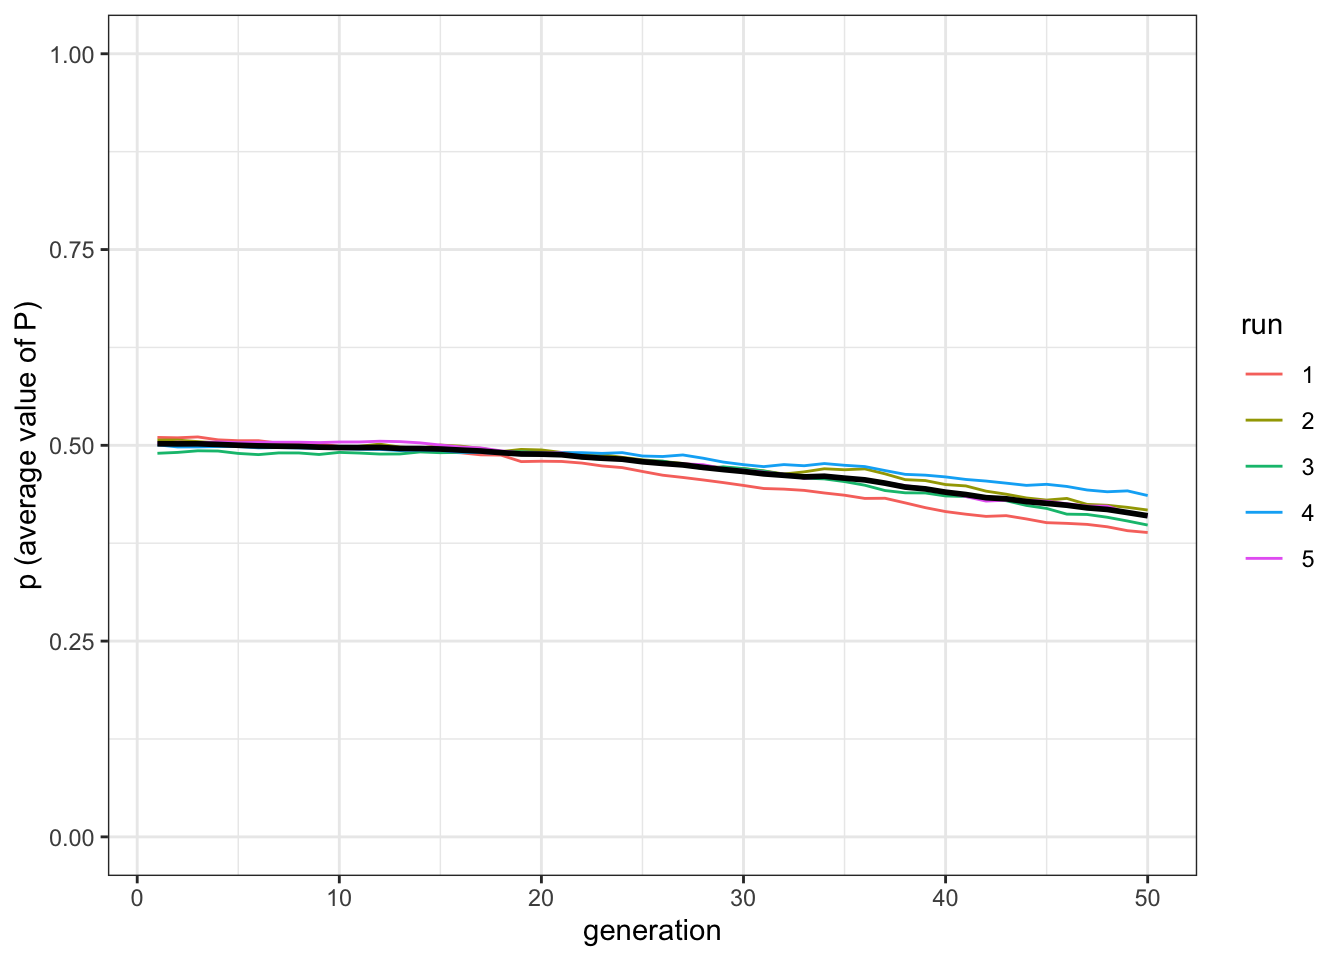
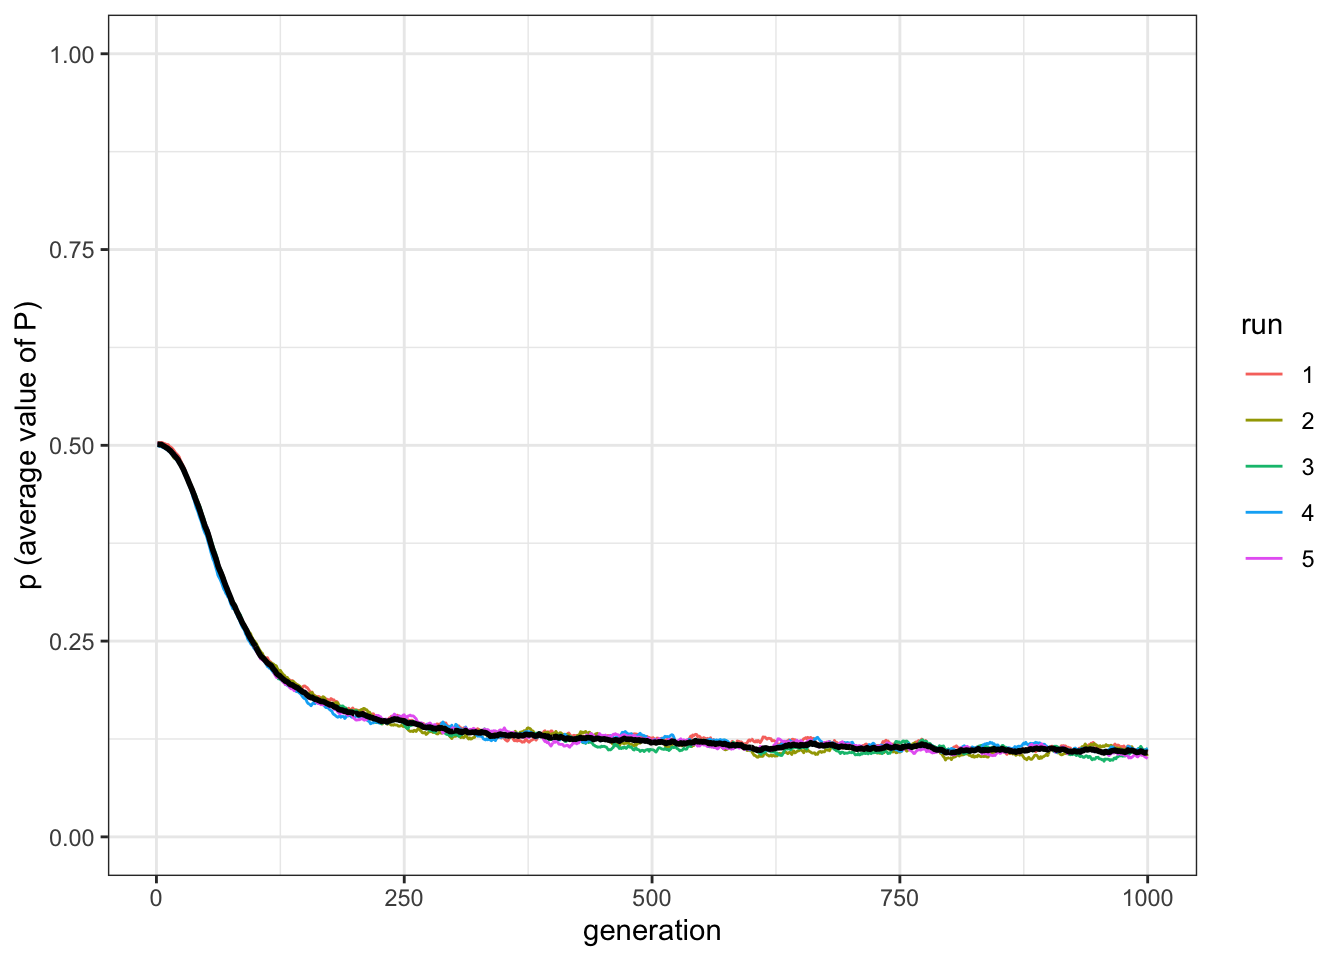
adding explanation of code

diff --git a/_book/social-learning-of-social-learning-rules.html b/_book/social-learning-of-social-learning-rules.html
@@ -234,8 +234,8 @@ population &lt;-<span class="st"> </span><span class="kw">tibble</span>(<span cl
 </div>
 <div id="maintaining-open-populations" class="section level2">
 <h2><span class="header-section-number">7.2</span> Maintaining open populations</h2>
-<p>The result above highlights a possibly interesting aspect of what could happen when social learning rules are themselves subject to social learning, but it does not represent, of course, what happens in reality. Some models, such as the Rogers’ model we explored in [chapter 8][Rogers’ model], are useful exactly because they force us to think how reality differs from the modeled situation. Individuals, in real life, remain open because learning from others is, on average, effective, and increase their fitness.</p>
-<p>However,</p>
+<p>The result above highlights a possibly interesting aspect of what could happen when social learning rules are themselves subject to social learning, but it does not represent, of course, what happens in reality. Some models, such as the Rogers’ model we explored in [chapter 8][Rogers’ model], are useful exactly because they force us to think how reality differs from the modeled situation. Individuals, in real life, remain open because learning from others is, on average, effective, and increases their fitness.</p>
+<p>In addition, even without considering the possible fitness advantages of copying from others, there may be other reasons why individuals remain open to cultural influences. We can add a bit of complexity to the previous model and see what happens. For example, instead of having a single <em>P</em> value, individuals can be “open” or “conservative” depending on the specific cultural trait they observe. One can be open to try exotic recipes, while another may like only its local cuisine; one want to know everything about combat sports, while another prefers watching them in TV. We can say that, instead of a single <em>P</em>, we have many preferences associated to cultural traits and, as before, they can be transmitted from one individual to another. Second, we decide to copy other individuals depending on our preferences for the traits they show us. Finally, individuals are born [AS BEFORE, IF BIRTH/DEATH PROCESSES ARE NOT INTRODUCED BEFORE, WE NEED TO SAY SOMETHING HERE] without cultural traits, and they acquire them during the course of their life, by copying them from others, or by introducing them through innovation. The new function <code>openness_conservatims_2()</code> does all the above.</p>
 <div class="sourceCode"><pre class="sourceCode r"><code class="sourceCode r">openness_conservatism_<span class="dv">2</span> &lt;-<span class="st"> </span><span class="cf">function</span>(N, M, mu, p_death, t_max, r_max){
   output &lt;-<span class="st"> </span><span class="kw">tibble</span>(<span class="dt">generation =</span> <span class="kw">rep</span>(<span class="dv">1</span><span class="op">:</span>t_max, r_max), <span class="dt">p =</span> <span class="kw">rep</span>(<span class="ot">NA</span>, t_max <span class="op">*</span><span class="st"> </span>r_max), <span class="dt">m =</span> <span class="kw">rep</span>(<span class="ot">NA</span>, t_max <span class="op">*</span><span class="st"> </span>r_max), <span class="dt">run =</span> <span class="kw">as.factor</span>(<span class="kw">rep</span>(<span class="dv">1</span><span class="op">:</span>r_max, <span class="dt">each =</span> t_max)))
   <span class="cf">for</span> (r <span class="cf">in</span> <span class="dv">1</span><span class="op">:</span>r_max) {
@@ -272,6 +272,21 @@ population &lt;-<span class="st"> </span><span class="kw">tibble</span>(<span cl
   }
   output
 }</code></pre></div>
+<p>The population is now described by two matrices, <code>population_preferences</code> and <code>population_traits</code>, that are initliased with random number between 0 and 1 and with all 0s, rispectively, meaning that at the beginning there are no traits in the population. The same happens for newborns. A parameter of the simulation, <em>M</em>, gives the maximum possible number of traits. At each time step, a proportion <span class="math inline">\(\mu\)</span> of innovators introduce a trait at random.</p>
+<p>The main novelties of the code are in the copying procedure. After selecting random demonstrators and, for each of them, a random trait-slot, we record in the variable <code>copy</code> the individuals that will copy the demonstrator. For this to happen, the demonstrator needs to actually posses the trait randomly selected <code>previous_population_traits[cbind(demonstrators,demonstrators_traits)]==1</code> and the preference of the observer for that trait should be sufficienlty high <code>previous_population_preferences[cbind(1:N, demonstrators_traits)] &gt; runif(N)</code>. If this two conditions are satisifed, the observer copies both the trait and the preference of the demonstrator.</p>
+<p>We can start with a situation similar to the previous model, with ony a single trait (<span class="math inline">\(M=1\)</span>). We set a relatively high innovation rate (<span class="math inline">\(\mu=0.1\)</span>) so that the initial population is quickly populate by cultural traits, and <span class="math inline">\(p_\text{death}=0.01\)</span>, meaning that, with a population of 100 individuals, every time step there will be on average one newborn. (As usual, you are invited to explore the effect of these parameters.)</p>
+<div class="sourceCode"><pre class="sourceCode r"><code class="sourceCode r">data_model &lt;-<span class="st"> </span><span class="kw">openness_conservatism_2</span>(<span class="dt">N =</span> <span class="dv">1000</span>, <span class="dt">M =</span> <span class="dv">1</span>, <span class="dt">mu =</span> <span class="fl">0.1</span>, <span class="dt">p_death =</span> <span class="fl">0.01</span>, <span class="dt">t_max =</span> <span class="dv">50</span>, <span class="dt">r_max =</span> <span class="dv">5</span>)
+<span class="kw">plot_multiple_runs_p</span>(data_model)</code></pre></div>
+<p><img src="_main_files/figure-html/14.6-1.png" width="672" /></p>
+<p>The plot is fairly similar to what we saw before. The average openness of the population converges towards lower values in few generations, in all runs. The descent is less steep since at the beginning of the simulations individuals need to acquire cultural traits to kickstart social transmission. We can now with an higher number of possible traits, for example <span class="math inline">\(M=10\)</span>.</p>
+<div class="sourceCode"><pre class="sourceCode r"><code class="sourceCode r">data_model &lt;-<span class="st"> </span><span class="kw">openness_conservatism_2</span>(<span class="dt">N =</span> <span class="dv">1000</span>, <span class="dt">M =</span> <span class="dv">10</span>, <span class="dt">mu =</span> <span class="fl">0.1</span>, <span class="dt">p_death =</span> <span class="fl">0.01</span>, <span class="dt">t_max =</span> <span class="dv">50</span>, <span class="dt">r_max =</span> <span class="dv">5</span>)
+<span class="kw">plot_multiple_runs_p</span>(data_model)</code></pre></div>
+<p><img src="_main_files/figure-html/14.7-1.png" width="672" /></p>
+<p>Now the covergence seems slower. We can try with longer simulations, fixing <span class="math inline">\(t_\text{max}=1000\)</span>.</p>
+<div class="sourceCode"><pre class="sourceCode r"><code class="sourceCode r">data_model &lt;-<span class="st"> </span><span class="kw">openness_conservatism_2</span>(<span class="dt">N =</span> <span class="dv">1000</span>, <span class="dt">M =</span> <span class="dv">10</span>, <span class="dt">mu =</span> <span class="fl">0.1</span>, <span class="dt">p_death =</span> <span class="fl">0.01</span>, <span class="dt">t_max =</span> <span class="dv">1000</span>, <span class="dt">r_max =</span> <span class="dv">5</span>)
+<span class="kw">plot_multiple_runs_p</span>(data_model)</code></pre></div>
+<p><img src="_main_files/figure-html/14.8-1.png" width="672" /></p>
+<p>Even after <span class="math inline">\(1000\)</span> generations, population openness did not go to 0, but it stabilises on a value of around <span class="math inline">\(0.12\)</span>. To understand what happens it is interesting to plot the other value we are recording in the output of the simulation, that is the average number of traits that individuals possess. The function below is equivalent to the usual <code>plot_multiple_runs()</code>, but with a different y-axis label, and it takes <span class="math inline">\(M\)</span> (the maximum number of traits) as a parameter, so that we can set the y-axis to span from 0 to <span class="math inline">\(M\)</span>, to have a better visual estimate of the proportion of traits present with respect to the maximum possible.</p>
 <div class="sourceCode"><pre class="sourceCode r"><code class="sourceCode r">plot_multiple_runs_m &lt;-<span class="st"> </span><span class="cf">function</span>(data_model, M) {
   <span class="kw">ggplot</span>(<span class="dt">data =</span> data_model, <span class="kw">aes</span>(<span class="dt">y =</span> m, <span class="dt">x =</span> generation)) <span class="op">+</span>
 <span class="st">    </span><span class="kw">geom_line</span>(<span class="kw">aes</span>(<span class="dt">colour =</span> run)) <span class="op">+</span>
@@ -280,39 +295,28 @@ population &lt;-<span class="st"> </span><span class="kw">tibble</span>(<span cl
 <span class="st">    </span><span class="kw">theme_bw</span>() <span class="op">+</span>
 <span class="st">    </span><span class="kw">labs</span>(<span class="dt">y =</span> <span class="st">&quot;m (average number of traits)&quot;</span>)
 }</code></pre></div>
-<div class="sourceCode"><pre class="sourceCode r"><code class="sourceCode r">data_model &lt;-<span class="st"> </span><span class="kw">openness_conservatism_2</span>(<span class="dt">N =</span> <span class="dv">100</span>, <span class="dt">M =</span> <span class="dv">1</span>, <span class="dt">mu =</span> <span class="fl">0.1</span>, <span class="dt">p_death =</span> <span class="fl">0.01</span>, <span class="dt">t_max =</span> <span class="dv">50</span>, <span class="dt">r_max =</span> <span class="dv">5</span>)
-<span class="kw">plot_multiple_runs_p</span>(data_model)</code></pre></div>
-<p><img src="_main_files/figure-html/14.7-1.png" width="672" /></p>
-<div class="sourceCode"><pre class="sourceCode r"><code class="sourceCode r"><span class="kw">plot_multiple_runs_m</span>(data_model, <span class="dt">M =</span> <span class="dv">1</span>)</code></pre></div>
-<p><img src="_main_files/figure-html/14.7-2.png" width="672" /></p>
-<div class="sourceCode"><pre class="sourceCode r"><code class="sourceCode r">data_model &lt;-<span class="st"> </span><span class="kw">openness_conservatism_2</span>(<span class="dt">N =</span> <span class="dv">100</span>, <span class="dt">M =</span> <span class="dv">10</span>, <span class="dt">mu =</span> <span class="fl">0.1</span>, <span class="dt">p_death =</span> <span class="fl">0.01</span>, <span class="dt">t_max =</span> <span class="dv">50</span>, <span class="dt">r_max =</span> <span class="dv">5</span>)
-<span class="kw">plot_multiple_runs_p</span>(data_model)</code></pre></div>
-<p><img src="_main_files/figure-html/14.8-1.png" width="672" /></p>
 <div class="sourceCode"><pre class="sourceCode r"><code class="sourceCode r"><span class="kw">plot_multiple_runs_m</span>(data_model, <span class="dt">M =</span> <span class="dv">10</span>)</code></pre></div>
-<p><img src="_main_files/figure-html/14.8-2.png" width="672" /></p>
-<div class="sourceCode"><pre class="sourceCode r"><code class="sourceCode r">data_model &lt;-<span class="st"> </span><span class="kw">openness_conservatism_2</span>(<span class="dt">N =</span> <span class="dv">100</span>, <span class="dt">M =</span> <span class="dv">10</span>, <span class="dt">mu =</span> <span class="fl">0.1</span>, <span class="dt">p_death =</span> <span class="fl">0.01</span>, <span class="dt">t_max =</span> <span class="dv">1000</span>, <span class="dt">r_max =</span> <span class="dv">5</span>)
-<span class="kw">plot_multiple_runs_p</span>(data_model)</code></pre></div>
-<p><img src="_main_files/figure-html/14.9-1.png" width="672" /></p>
-<div class="sourceCode"><pre class="sourceCode r"><code class="sourceCode r"><span class="kw">plot_multiple_runs_m</span>(data_model, <span class="dt">M =</span> <span class="dv">10</span>)</code></pre></div>
-<p><img src="_main_files/figure-html/14.9-2.png" width="672" /></p>
-<div class="sourceCode"><pre class="sourceCode r"><code class="sourceCode r">data_model &lt;-<span class="st"> </span><span class="kw">openness_conservatism_2</span>(<span class="dt">N =</span> <span class="dv">100</span>, <span class="dt">M =</span> <span class="dv">50</span>, <span class="dt">mu =</span> <span class="fl">0.1</span>, <span class="dt">p_death =</span> <span class="fl">0.01</span>, <span class="dt">t_max =</span> <span class="dv">1000</span>, <span class="dt">r_max =</span> <span class="dv">5</span>)
-<span class="kw">plot_multiple_runs_p</span>(data_model)</code></pre></div>
 <p><img src="_main_files/figure-html/14.10-1.png" width="672" /></p>
+<p>On average, individuals do not have all 10 possible traits. Remember that individuals are replaced with a birth/death process, and they are born with no cultural traits so that they need time to acquire them. Let’s try now with a bigger possible cultural repertoire, say <span class="math inline">\(M=50\)</span>, and plot the aveage openness as well as the average number of traits.</p>
+<div class="sourceCode"><pre class="sourceCode r"><code class="sourceCode r">data_model &lt;-<span class="st"> </span><span class="kw">openness_conservatism_2</span>(<span class="dt">N =</span> <span class="dv">1000</span>, <span class="dt">M =</span> <span class="dv">50</span>, <span class="dt">mu =</span> <span class="fl">0.1</span>, <span class="dt">p_death =</span> <span class="fl">0.01</span>, <span class="dt">t_max =</span> <span class="dv">1000</span>, <span class="dt">r_max =</span> <span class="dv">5</span>)
+<span class="kw">plot_multiple_runs_p</span>(data_model)</code></pre></div>
+<p><img src="_main_files/figure-html/14.11-1.png" width="672" /></p>
 <div class="sourceCode"><pre class="sourceCode r"><code class="sourceCode r"><span class="kw">plot_multiple_runs_m</span>(data_model, <span class="dt">M =</span> <span class="dv">50</span>)</code></pre></div>
-<p><img src="_main_files/figure-html/14.10-2.png" width="672" /></p>
-<p>Visualise the full relationship:</p>
+<p><img src="_main_files/figure-html/14.11-2.png" width="672" /></p>
+<p>This time the average openness stabilises to an even higher value (around <span class="math inline">\(0.4\)</span>), and the number of cultural traits is below 20, lower than half of all possible traits.</p>
+<p>We can explcitly visualise the relationship between <span class="math inline">\(M\)</span> and population openness after <span class="math inline">\(1000\)</span> generations for few representative values of <span class="math inline">\(M\)</span>. We consider only a single run for each condition as, from the previous results, we know that different runs give very similar results.</p>
 <div class="sourceCode"><pre class="sourceCode r"><code class="sourceCode r">test_openness &lt;-<span class="st"> </span><span class="kw">tibble</span>(<span class="dt">M =</span> <span class="kw">c</span>(<span class="dv">1</span>,<span class="dv">5</span>,<span class="dv">10</span>,<span class="dv">20</span>,<span class="dv">50</span>,<span class="dv">100</span>), <span class="dt">p =</span> <span class="kw">rep</span>(<span class="ot">NA</span>, <span class="dv">6</span>))
 <span class="cf">for</span>(condition <span class="cf">in</span> test_openness<span class="op">$</span>M){
   data_model &lt;-<span class="st"> </span><span class="kw">openness_conservatism_2</span>(<span class="dt">N =</span> <span class="dv">100</span>, <span class="dt">M =</span> condition, <span class="dt">mu =</span> <span class="fl">0.1</span>, <span class="dt">p_death =</span> <span class="fl">0.01</span>, <span class="dt">t_max =</span> <span class="dv">1000</span>, <span class="dt">r_max =</span> <span class="dv">1</span>)
   test_openness[test_openness<span class="op">$</span>M <span class="op">==</span><span class="st"> </span>condition, ]<span class="op">$</span>p &lt;-<span class="st"> </span>data_model[data_model<span class="op">$</span>generation <span class="op">==</span><span class="st"> </span><span class="dv">1000</span>, ]<span class="op">$</span>p
 }
 <span class="kw">ggplot</span>(<span class="dt">data =</span> test_openness, <span class="kw">aes</span>(<span class="dt">x =</span> M, <span class="dt">y =</span> p)) <span class="op">+</span>
-<span class="st">  </span><span class="kw">geom_line</span>() <span class="op">+</span>
+<span class="st">  </span><span class="kw">geom_line</span>(<span class="dt">linetype =</span> <span class="st">&quot;dashed&quot;</span>) <span class="op">+</span>
 <span class="st">  </span><span class="kw">geom_point</span>() <span class="op">+</span>
 <span class="st">  </span><span class="kw">theme_bw</span>() <span class="op">+</span>
 <span class="st">  </span><span class="kw">labs</span>(<span class="dt">x =</span> <span class="st">&quot;Maximum possible number of traits&quot;</span>, <span class="dt">y =</span> <span class="st">&quot;p (final average value of p)&quot;</span>)</code></pre></div>
-<p><img src="_main_files/figure-html/14.11-1.png" width="672" /></p>
-<p>You can do the same for <span class="math inline">\(p_\text{death}\)</span></p>
+<p><img src="_main_files/figure-html/14.12-1.png" width="672" /></p>
+<p>you can find if it is true the explanation. - You can do the same for <span class="math inline">\(p_\text{death}\)</span>,</p>
 </div>
 <div id="summary-of-the-model-7" class="section level2">
 <h2><span class="header-section-number">7.3</span> Summary of the model</h2>
